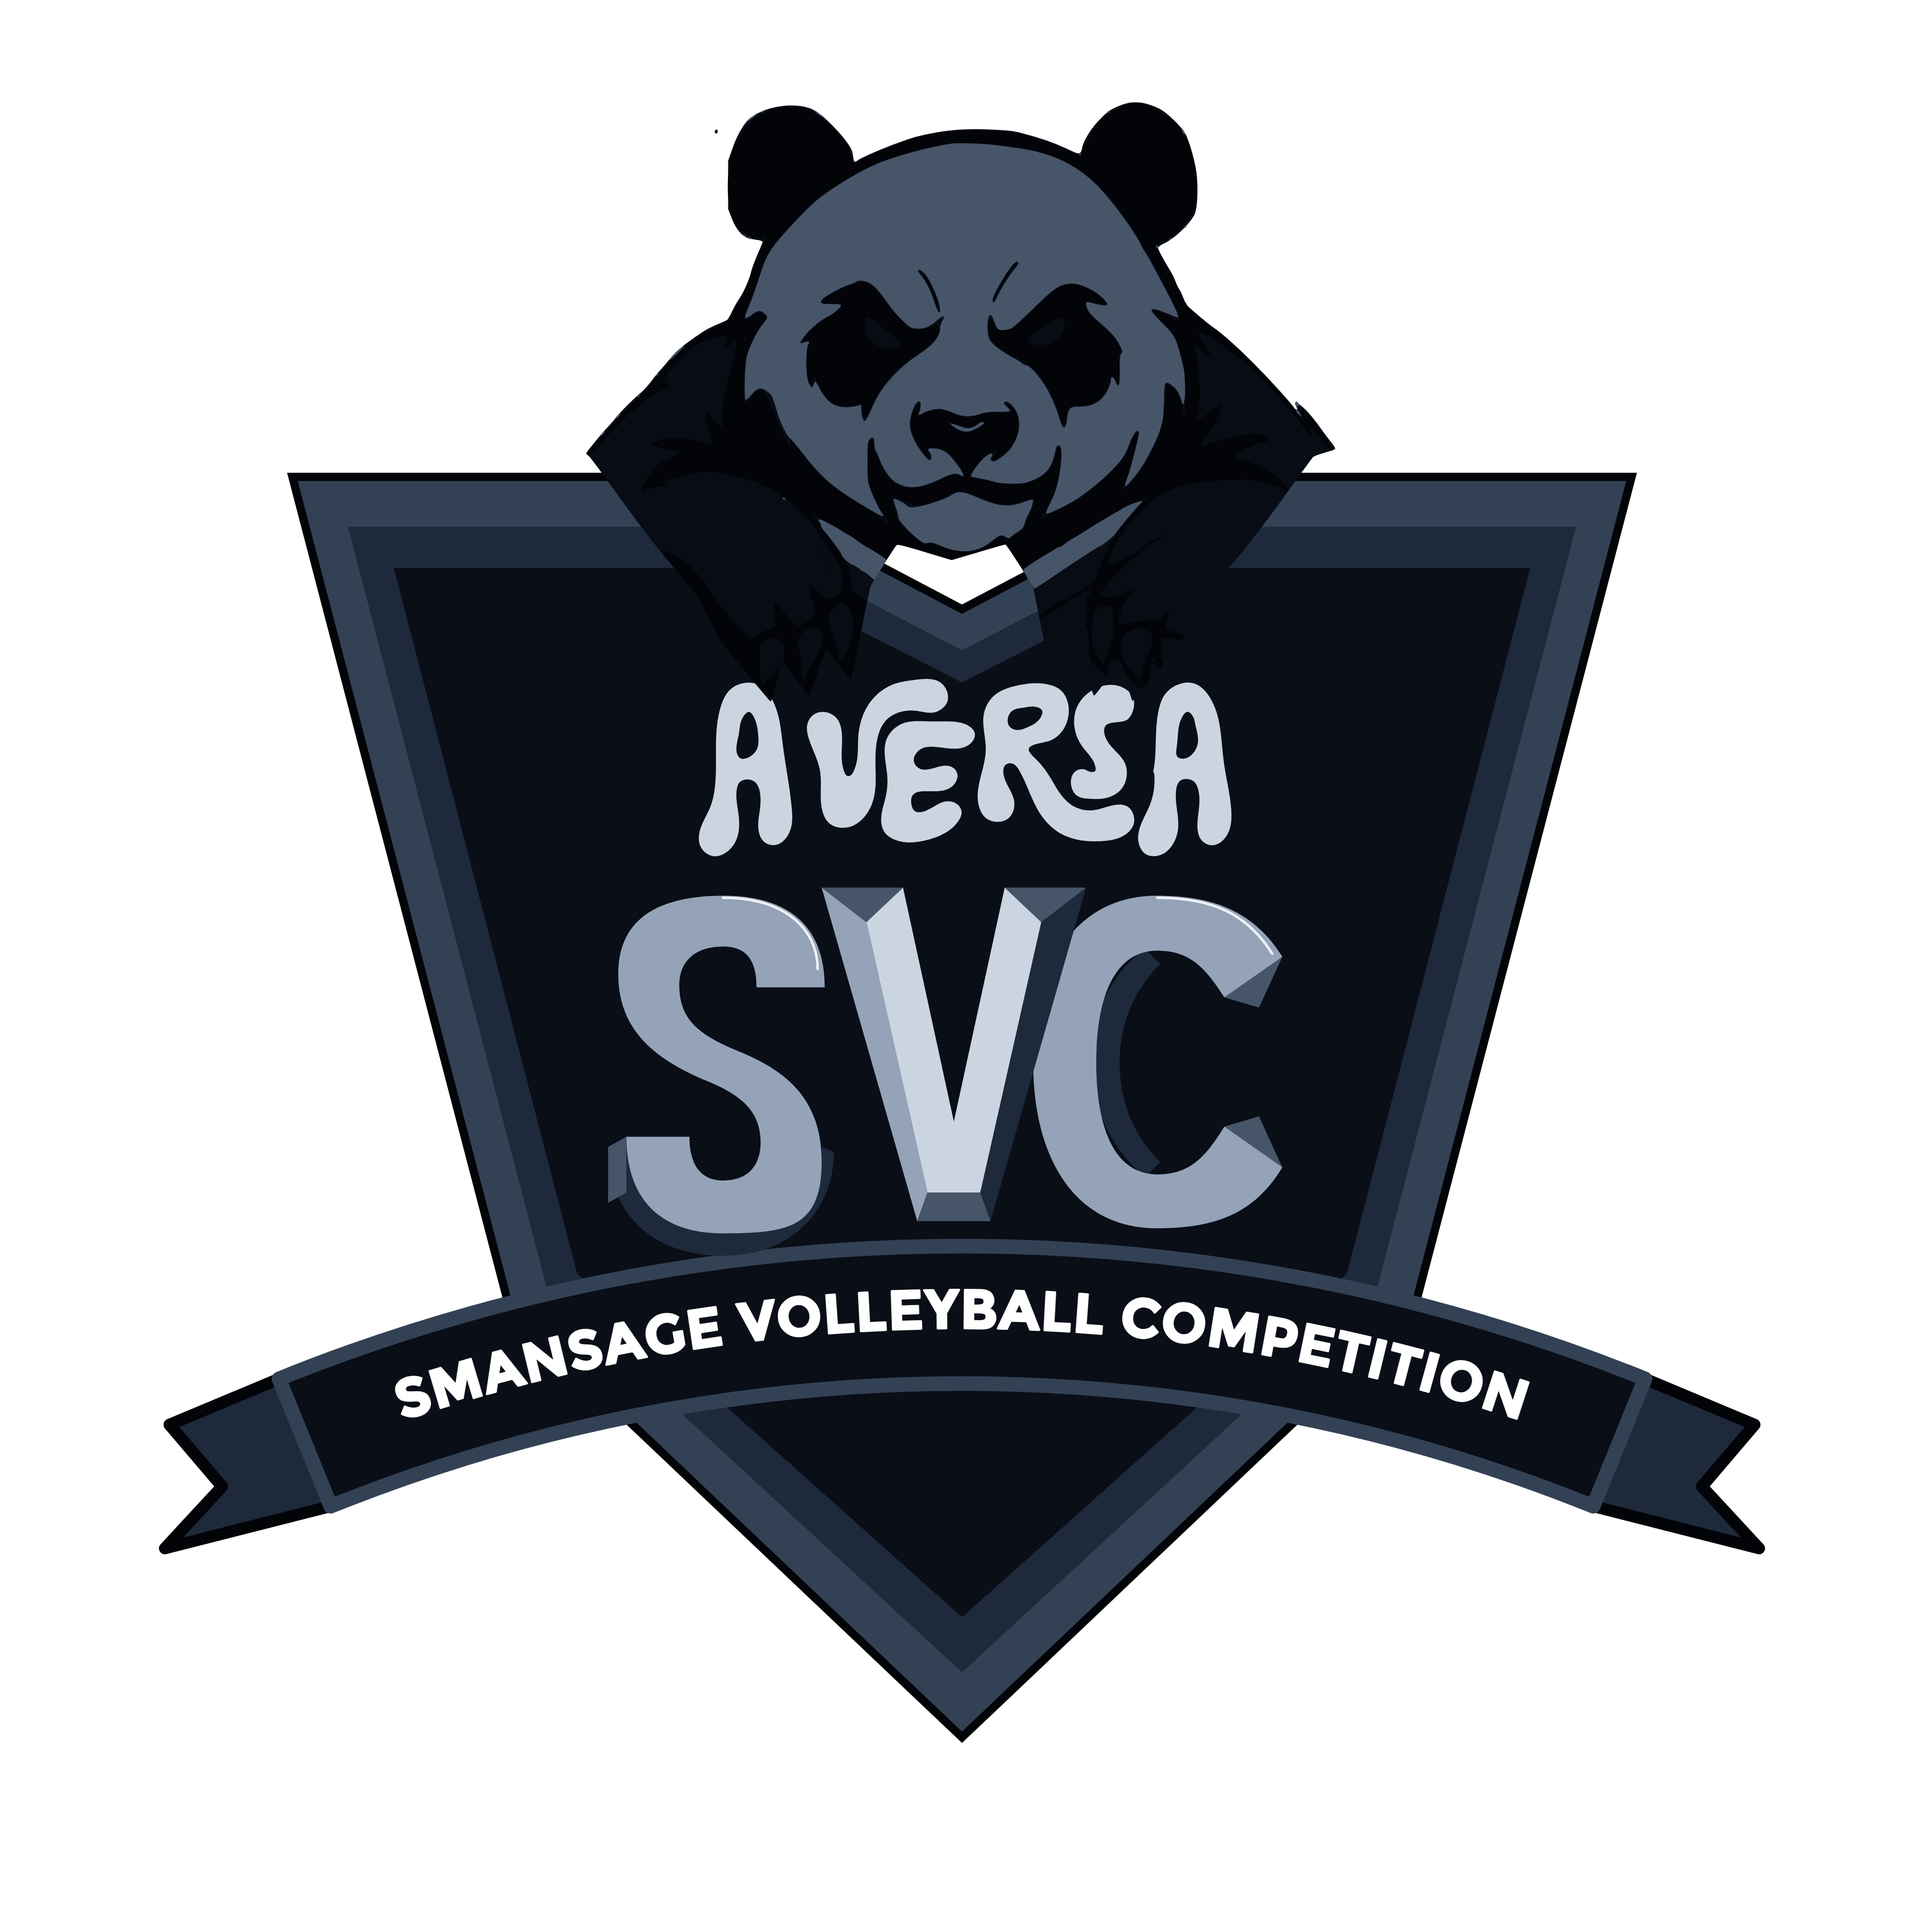
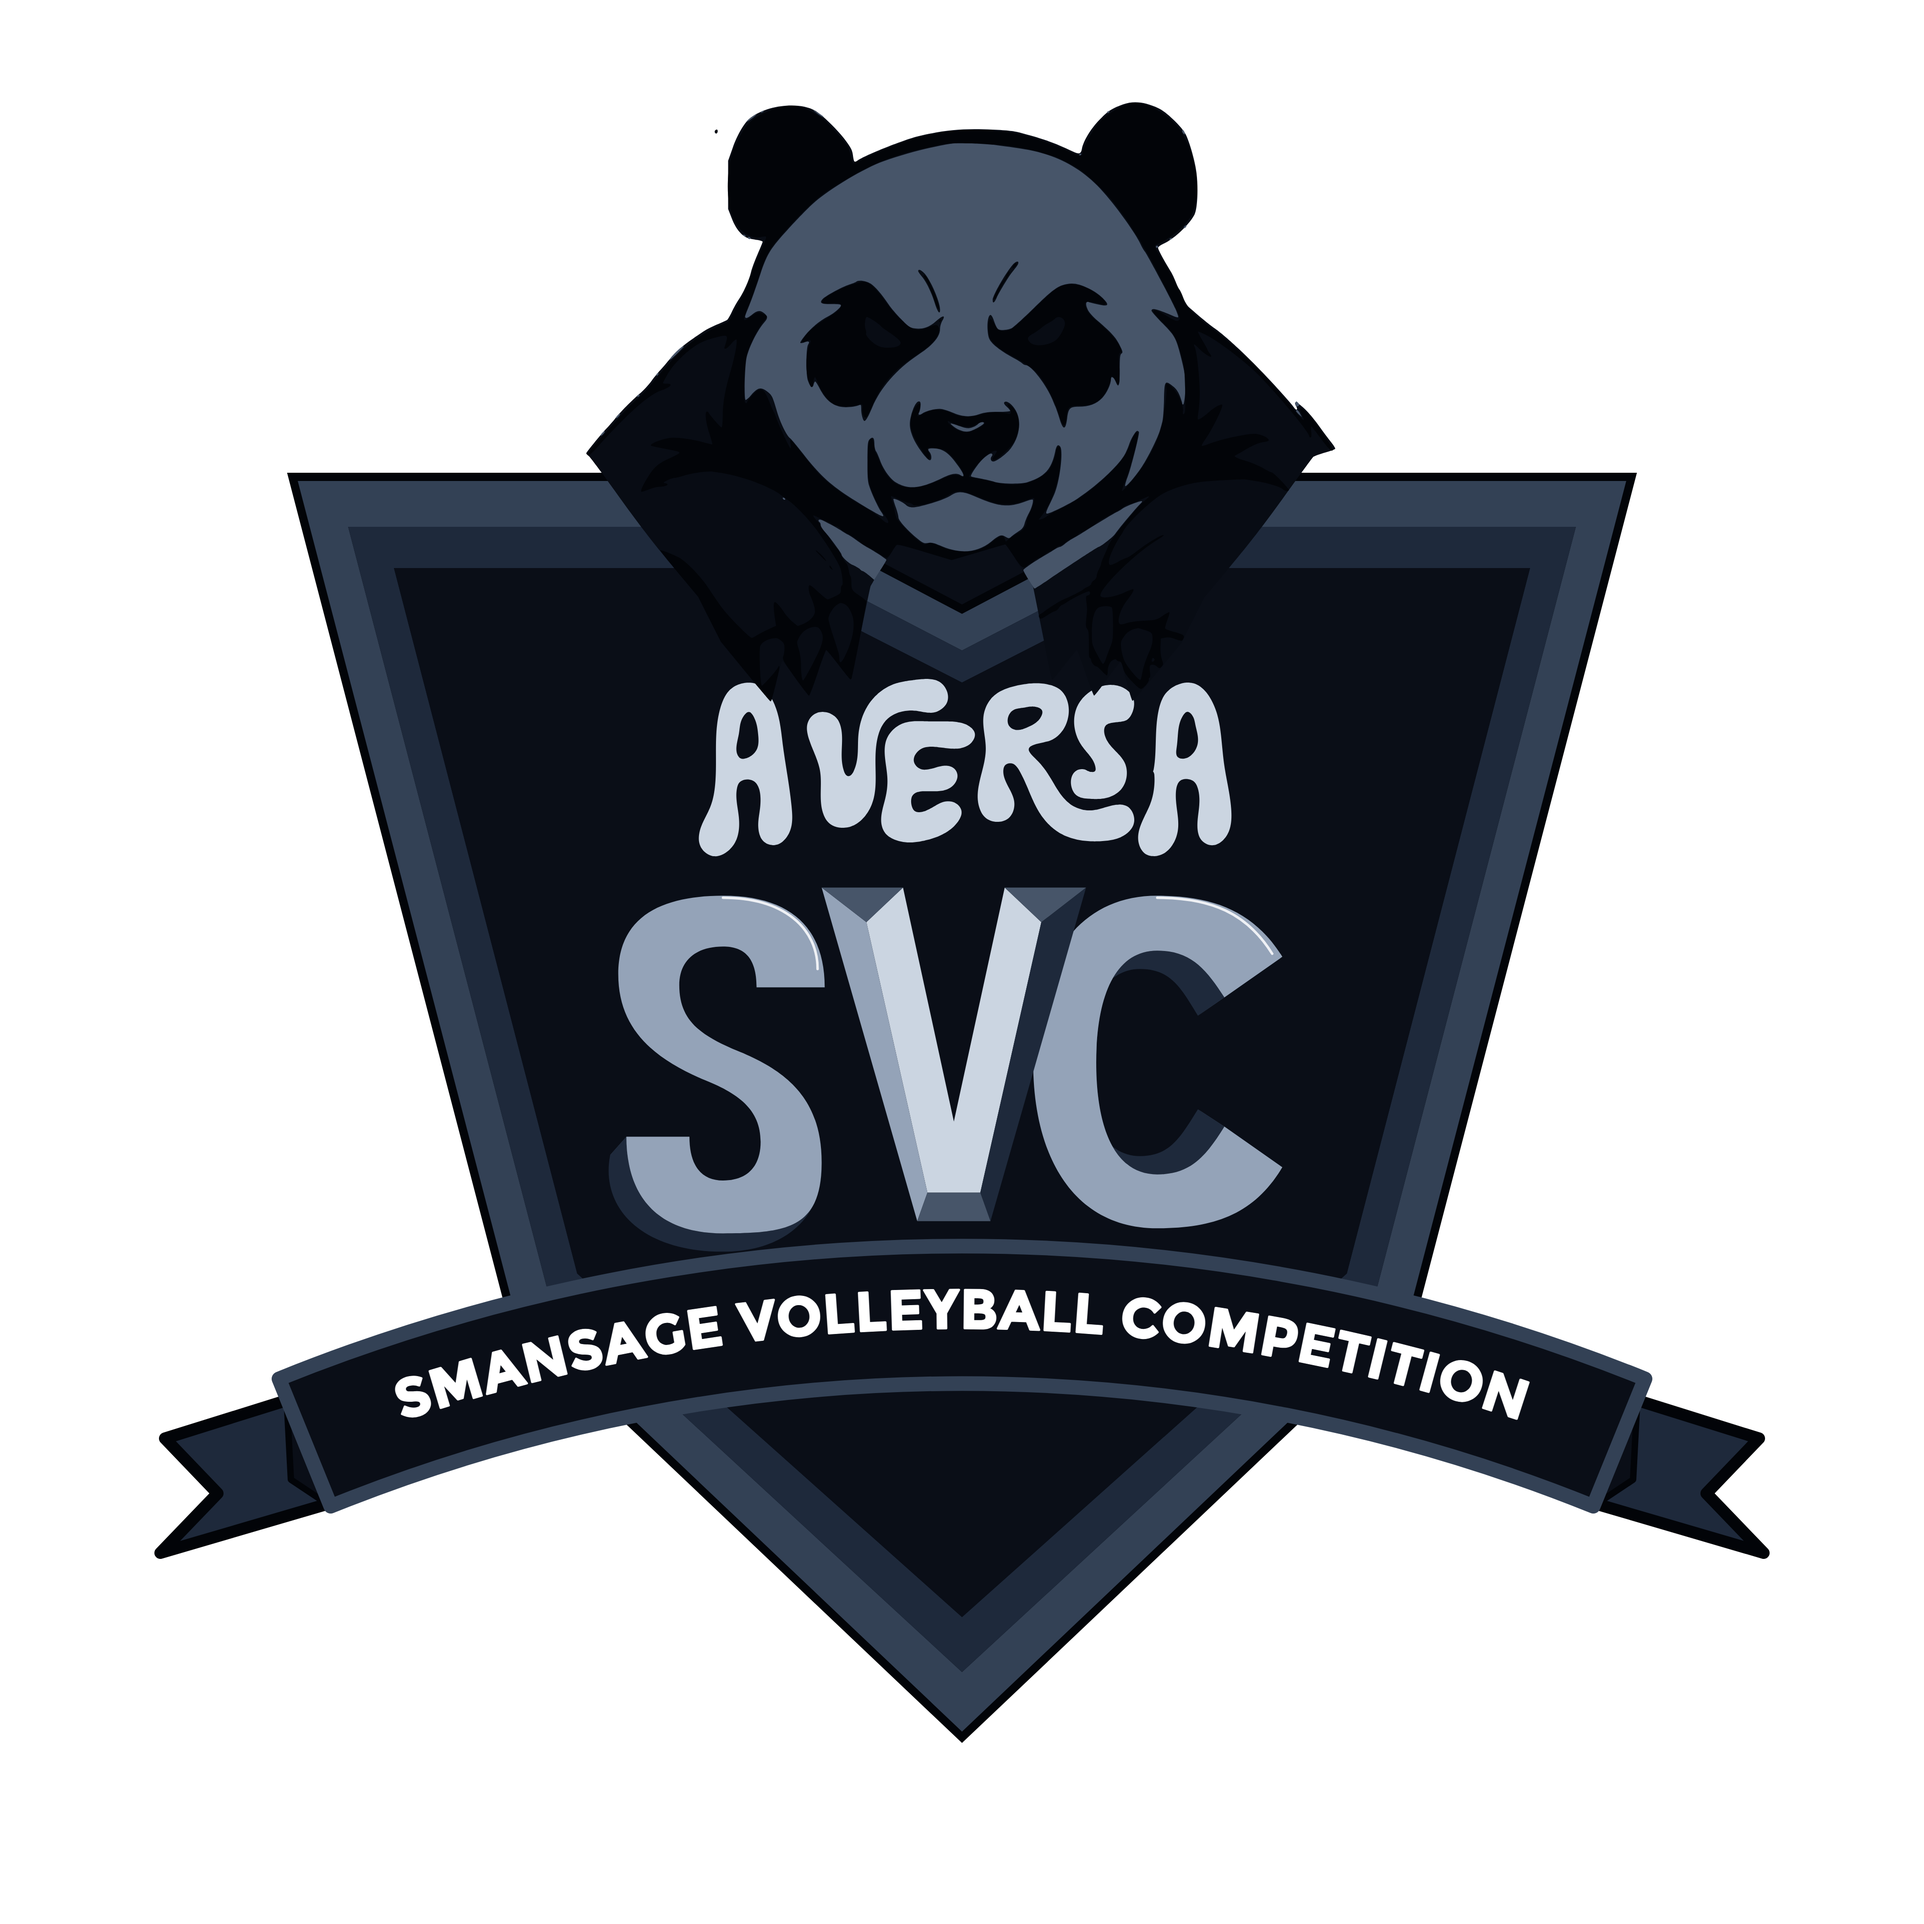
fix(crest): eliminate transparent gap under panda, refine ribbon wing folds, and smooth S/C 3D extrusions

diff --git a/v6_detailing/scripts/build_svc_crest_master.py b/v6_detailing/scripts/build_svc_crest_master.py
@@ -229,18 +229,26 @@ def build_chiseled_svc_svg(mode):
     # 1. LETTER S (Extrusions + Face)
     lines.append('      <!-- 1. LETTER S -->')
     lines.append('      <g id="letter-S">')
-    lines.append(f'        <path d="M 80 325 L 62 335 C 62 400 105 442 175 442 C 245 442 284 395 284 340 L 272 335 C 272 385 238 420 175 420 C 112 420 80 380 80 325 Z" fill="{depth_fill}"{poly_stroke}/>')
-    lines.append(f'        <polygon points="80,325 80,380 62,390 62,335" fill="{dark_fill}"{poly_stroke}/>')
-    lines.append(f'        <polygon points="275,178 208,178 245,148" fill="{dark_fill}"{poly_stroke}/>')
+    # Top scoop inner bevel:
+    lines.append(f'        <polygon points="275,178 208,178 245,150" fill="{dark_fill}"{poly_stroke}/>')
+    # Bottom terminal bevel cut:
+    lines.append(f'        <polygon points="80,325 64,343 126,343 142,325" fill="{dark_fill}"{poly_stroke}/>')
+    # Bottom belly curved extrusion (smoothly following belly curvature without jagged flap or step):
+    lines.append(f'        <path d="M 80 325 L 64 343 C 54 395 95 438 175 438 C 235 438 272 405 272 355 L 272 350 C 272 415 238 420 175 420 C 112 420 80 385 80 325 Z" fill="{depth_fill}"{poly_stroke}/>')
+    # S Front Face:
     lines.append(f'        <path d="M 175 88 C 242 88 275 120 275 178 L 208 178 C 208 148 195 138 175 138 C 148 138 132 152 132 176 C 132 210 152 225 188 240 C 238 260 272 288 272 350 C 272 415 238 420 175 420 C 112 420 80 385 80 325 L 142 325 C 142 355 155 368 175 368 C 198 368 212 355 212 330 C 212 298 190 282 154 268 C 108 248 72 220 72 165 C 72 108 115 88 175 88 Z" fill="{face_fill}"{poly_stroke}/>')
     lines.append('      </g>')
     
     # 2. LETTER C (Extrusions + Face)
     lines.append('      <!-- 2. LETTER C -->')
     lines.append('      <g id="letter-C">')
-    lines.append(f'        <path d="M 605 155 C 575 185 565 220 565 252 C 565 285 575 320 605 350 L 590 365 C 550 330 538 290 538 252 C 538 212 550 170 590 140 Z" fill="{depth_fill}"{poly_stroke}/>')
-    lines.append(f'        <polygon points="725,148 668,188 702,198" fill="{dark_fill}"{poly_stroke}/>')
-    lines.append(f'        <polygon points="725,355 668,315 702,305" fill="{dark_fill}"{poly_stroke}/>')
+    # Top terminal bevel:
+    lines.append(f'        <polygon points="725,148 668,188 642,206 698,166" fill="{dark_fill}"{poly_stroke}/>')
+    # Bottom terminal bevel:
+    lines.append(f'        <polygon points="725,355 668,315 642,298 698,338" fill="{dark_fill}"{poly_stroke}/>')
+    # Inner wall 3D depth facet (smoothly following inner curve of C from top bevel to bottom bevel):
+    lines.append(f'        <path d="M 668 188 C 650 160 635 142 602 142 C 560 142 542 188 542 252 C 542 316 560 362 602 362 C 635 362 650 344 668 315 L 642 298 C 625 325 615 344 585 344 C 550 344 530 305 530 252 C 530 198 550 160 585 160 C 615 160 625 178 642 206 Z" fill="{depth_fill}"{poly_stroke}/>')
+    # C Front Face:
     lines.append(f'        <path d="M 725 148 L 668 188 C 650 160 635 142 602 142 C 560 142 542 188 542 252 C 542 316 560 362 602 362 C 635 362 650 344 668 315 L 725 355 C 698 400 660 415 602 415 C 520 415 480 345 480 252 C 480 158 520 88 602 88 C 660 88 698 105 725 148 Z" fill="{face_fill}"{poly_stroke}/>')
     lines.append('      </g>')
 
@@ -288,6 +296,10 @@ def main():
     # -------------------------------------------------------------
     # 1. 5-Sided Heraldic Pentagonal Shield Geometry
     # -------------------------------------------------------------
+    # Solid shield foundation (covers full height to Y=1050 behind collar - eliminates hole under panda)
+    shield_solid_base_d = "M 650 1050 L 3550 1050 L 3080 2850 L 2100 3780 L 1120 2850 Z"
+    shield_throat_left_d = "M 1550 1050 L 2100 1050 L 2100 1340 Z"
+    shield_throat_right_d = "M 2100 1050 L 2650 1050 L 2100 1340 Z"
     shield_outer_d = "M 650 1050 L 1550 1050 L 2100 1340 L 2650 1050 L 3550 1050 L 3080 2850 L 2100 3780 L 1120 2850 Z"
     shield_silver_rim_d = (
         "M 650 1050 L 1550 1050 L 2100 1340 L 2650 1050 L 3550 1050 L 3080 2850 L 2100 3780 L 1120 2850 Z "
@@ -345,14 +357,14 @@ def main():
     ribbon_rim_top_d = "M 609 3010 A 3980 3980 0 0 1 3591 3010 L 3580 3045 A 3945 3945 0 0 0 620 3045 Z"
     ribbon_rim_bot_d = "M 711 3253 A 3715 3715 0 0 1 3489 3253 L 3478 3288 A 3680 3680 0 0 0 722 3288 Z"
 
-    # Folds & Swallowtail Wings from REFFERENCE.jpeg
-    ribbon_fold_left_d = "M 609 3010 L 722 3288 L 615 3160 Z"
-    ribbon_tail_left_d = "M 609 3010 L 370 3110 L 485 3245 L 360 3380 L 722 3288 Z"
-    ribbon_tail_left_bevel_d = "M 609 3010 L 370 3110 L 485 3245 L 470 3225 L 385 3125 L 615 3030 Z"
+    # Swallowtail Wings tucking deeply BEHIND main body (no visible seams or slits):
+    ribbon_tail_left_d = "M 680 3040 L 360 3140 L 475 3260 L 350 3390 L 760 3270 Z"
+    ribbon_tail_left_bevel_d = "M 680 3040 L 360 3140 L 475 3260 L 460 3240 L 375 3155 L 680 3060 Z"
+    ribbon_fold_left_d = "M 625 3040 L 722 3288 L 635 3230 Z"
 
-    ribbon_fold_right_d = "M 3591 3010 L 3478 3288 L 3585 3160 Z"
-    ribbon_tail_right_d = "M 3591 3010 L 3830 3110 L 3715 3245 L 3840 3380 L 3478 3288 Z"
-    ribbon_tail_right_bevel_d = "M 3591 3010 L 3830 3110 L 3715 3245 L 3730 3225 L 3815 3125 L 3585 3030 Z"
+    ribbon_tail_right_d = "M 3520 3040 L 3840 3140 L 3725 3260 L 3850 3390 L 3440 3270 Z"
+    ribbon_tail_right_bevel_d = "M 3520 3040 L 3840 3140 L 3725 3260 L 3740 3240 L 3825 3155 L 3520 3060 Z"
+    ribbon_fold_right_d = "M 3575 3040 L 3478 3288 L 3565 3230 Z"
 
     # Text Arc: R = 3805 (perfect vertical center inside main arch body without overlapping folds)
     ribbon_text_path_d = "M 810 3125 A 3805 3805 0 0 1 3390 3125"
@@ -461,17 +473,23 @@ def main():
         lines.append('    <!-- 1. 5-SIDED HERALDIC SHIELD FOUNDATION -->')
         lines.append('    <g id="shield-base">')
         if is_color:
+            lines.append(f'      <path d="{shield_solid_base_d}" fill="{PALETTE["obsidian"]}"/>')
+            lines.append(f'      <path d="{shield_throat_left_d}" fill="url(#navyLeftGrad)"/>')
+            lines.append(f'      <path d="{shield_throat_right_d}" fill="url(#navyRightGrad)"/>')
             lines.append(f'      <path d="{shield_outer_d}" fill="{PALETTE["obsidian"]}" stroke="{PALETTE["black_ink"]}" stroke-width="48" stroke-linejoin="round"/>')
             lines.append(f'      <path d="{shield_silver_rim_d}" fill="url(#silverRimGrad)" fill-rule="evenodd"/>')
             lines.append(f'      <path d="{shield_gold_rim_d}" fill="url(#goldRimGrad)" fill-rule="evenodd"/>')
             lines.append(f'      <path d="{shield_navy_left_d}" fill="url(#navyLeftGrad)"/>')
             lines.append(f'      <path d="{shield_navy_right_d}" fill="url(#navyRightGrad)"/>')
         elif is_white:
+            lines.append(f'      <path d="{shield_solid_base_d}" fill="#FFFFFF"/>')
             lines.append(f'      <path d="{shield_outer_d}" fill="#FFFFFF" stroke="#000000" stroke-width="48" stroke-linejoin="round"/>')
             lines.append(f'      <path d="{shield_silver_rim_d}" fill="#000000" fill-rule="evenodd" opacity="0.15"/>')
             lines.append(f'      <path d="{shield_gold_rim_d}" fill="#000000" fill-rule="evenodd" opacity="0.08"/>')
-            lines.append(f'      <path d="{shield_navy_left_d} {shield_navy_right_d}" fill="#FFFFFF" stroke="#000000" stroke-width="16"/>')
+            lines.append(f'      <path d="{shield_navy_left_d} {shield_navy_right_d} {shield_throat_left_d} {shield_throat_right_d}" fill="#FFFFFF" stroke="#000000" stroke-width="16"/>')
         else:
+            lines.append(f'      <path d="{shield_solid_base_d}" fill="{PALETTE["obsidian"]}"/>')
+            lines.append(f'      <path d="{shield_throat_left_d} {shield_throat_right_d}" fill="#0A0E17"/>')
             lines.append(f'      <path d="{shield_outer_d}" fill="{PALETTE["obsidian"]}" stroke="{PALETTE["black_ink"]}" stroke-width="36"/>')
             lines.append(f'      <path d="{shield_silver_rim_d}" fill="#334155" fill-rule="evenodd"/>')
             lines.append(f'      <path d="{shield_gold_rim_d}" fill="#1E293B" fill-rule="evenodd"/>')
@@ -503,7 +521,7 @@ def main():
         if is_color:
             lines.append(f'      <path d="{ribbon_tail_left_d} {ribbon_tail_right_d}" fill="url(#goldRimGrad)" stroke="{PALETTE["black_ink"]}" stroke-width="26" stroke-linejoin="round"/>')
             lines.append(f'      <path d="{ribbon_tail_left_bevel_d} {ribbon_tail_right_bevel_d}" fill="url(#goldLightFacet)"/>')
-            lines.append(f'      <path d="{ribbon_fold_left_d} {ribbon_fold_right_d}" fill="{PALETTE["mahogany"]}" stroke="{PALETTE["black_ink"]}" stroke-width="18"/>')
+            lines.append(f'      <path d="{ribbon_fold_left_d} {ribbon_fold_right_d}" fill="{PALETTE["mahogany"]}" stroke="{PALETTE["black_ink"]}" stroke-width="14" stroke-linejoin="round"/>')
             lines.append(f'      <path d="{ribbon_body_d}" fill="url(#goldRimGrad)" stroke="{PALETTE["black_ink"]}" stroke-width="32" stroke-linejoin="round"/>')
             lines.append(f'      <path d="{ribbon_rim_top_d}" fill="url(#goldLightFacet)"/>')
             lines.append(f'      <path d="{ribbon_rim_bot_d}" fill="url(#goldDarkFacet)"/>')
@@ -513,12 +531,14 @@ def main():
             lines.append('      </text>')
         elif is_white:
             lines.append(f'      <path d="{ribbon_tail_left_d} {ribbon_tail_right_d}" fill="#FFFFFF" stroke="#000000" stroke-width="26" stroke-linejoin="round"/>')
+            lines.append(f'      <path d="{ribbon_fold_left_d} {ribbon_fold_right_d}" fill="#000000" stroke="#000000" stroke-width="14" stroke-linejoin="round"/>')
             lines.append(f'      <path d="{ribbon_body_d}" fill="#FFFFFF" stroke="#000000" stroke-width="32" stroke-linejoin="round"/>')
             lines.append('      <text font-family="\'Plus Jakarta Sans\', Montserrat, \'Arial Black\', sans-serif" font-size="120" font-weight="900" letter-spacing="1.8" fill="#000000" stroke="#000000" stroke-width="4.5" stroke-linejoin="round">')
             lines.append('        <textPath href="#ribbonTextArc" startOffset="50%" text-anchor="middle">SMANSAGE VOLLEYBALL COMPETITION</textPath>')
             lines.append('      </text>')
         else:
             lines.append(f'      <path d="{ribbon_tail_left_d} {ribbon_tail_right_d}" fill="#1E293B" stroke="#020408" stroke-width="26" stroke-linejoin="round"/>')
+            lines.append(f'      <path d="{ribbon_fold_left_d} {ribbon_fold_right_d}" fill="#0A0E17" stroke="#020408" stroke-width="14" stroke-linejoin="round"/>')
             lines.append(f'      <path d="{ribbon_body_d}" fill="#0A0E17" stroke="#334155" stroke-width="32" stroke-linejoin="round"/>')
             lines.append('      <text font-family="\'Plus Jakarta Sans\', Montserrat, \'Arial Black\', sans-serif" font-size="120" font-weight="900" letter-spacing="1.8" fill="#FFFFFF" stroke="#FFFFFF" stroke-width="4.5" stroke-linejoin="round">')
             lines.append('        <textPath href="#ribbonTextArc" startOffset="50%" text-anchor="middle">SMANSAGE VOLLEYBALL COMPETITION</textPath>')
